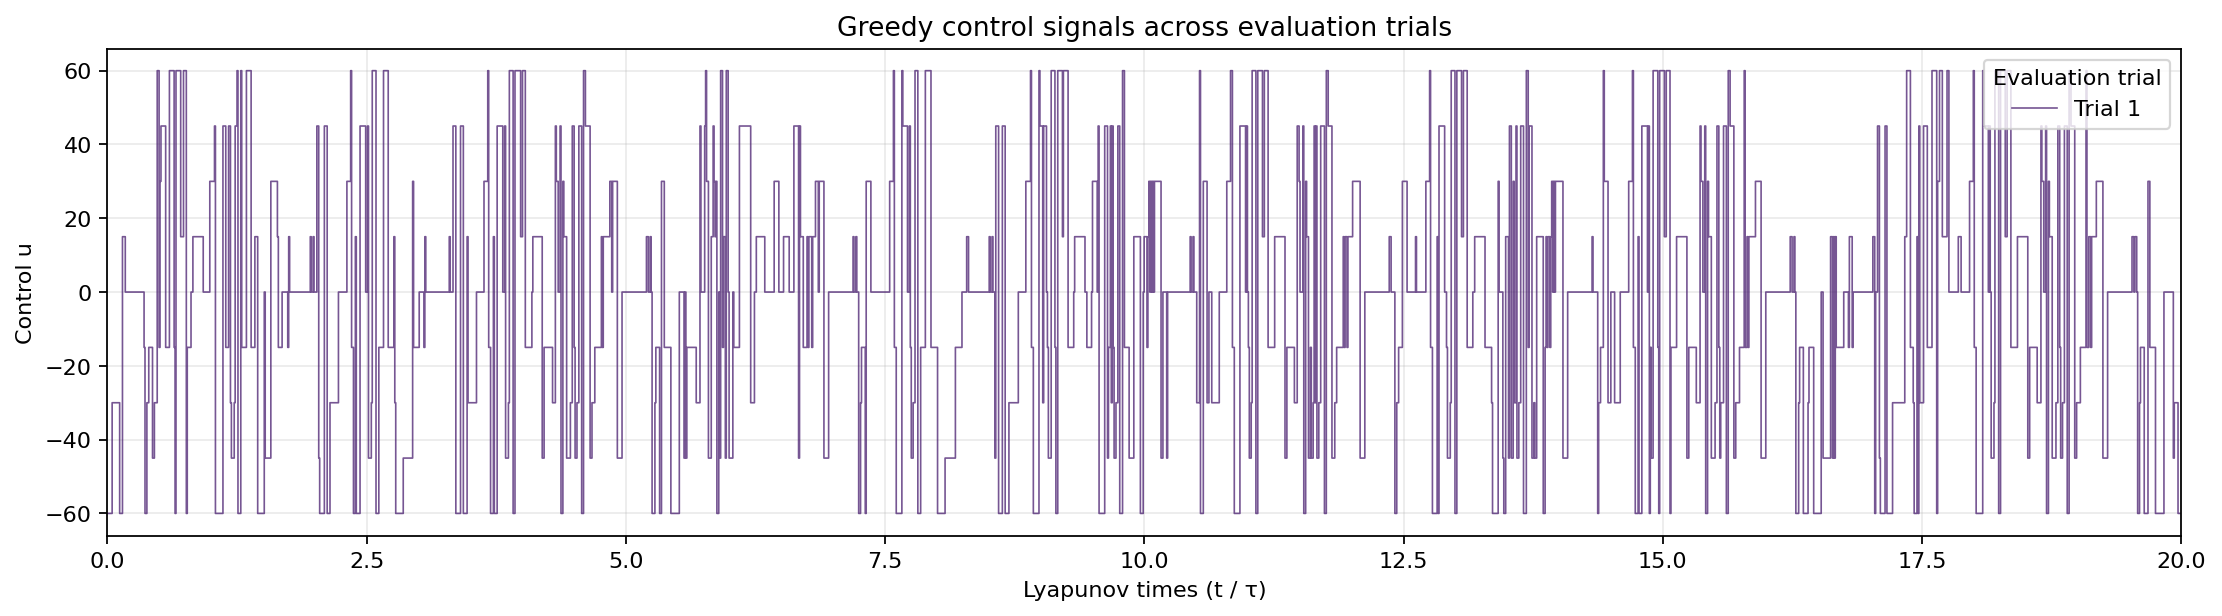
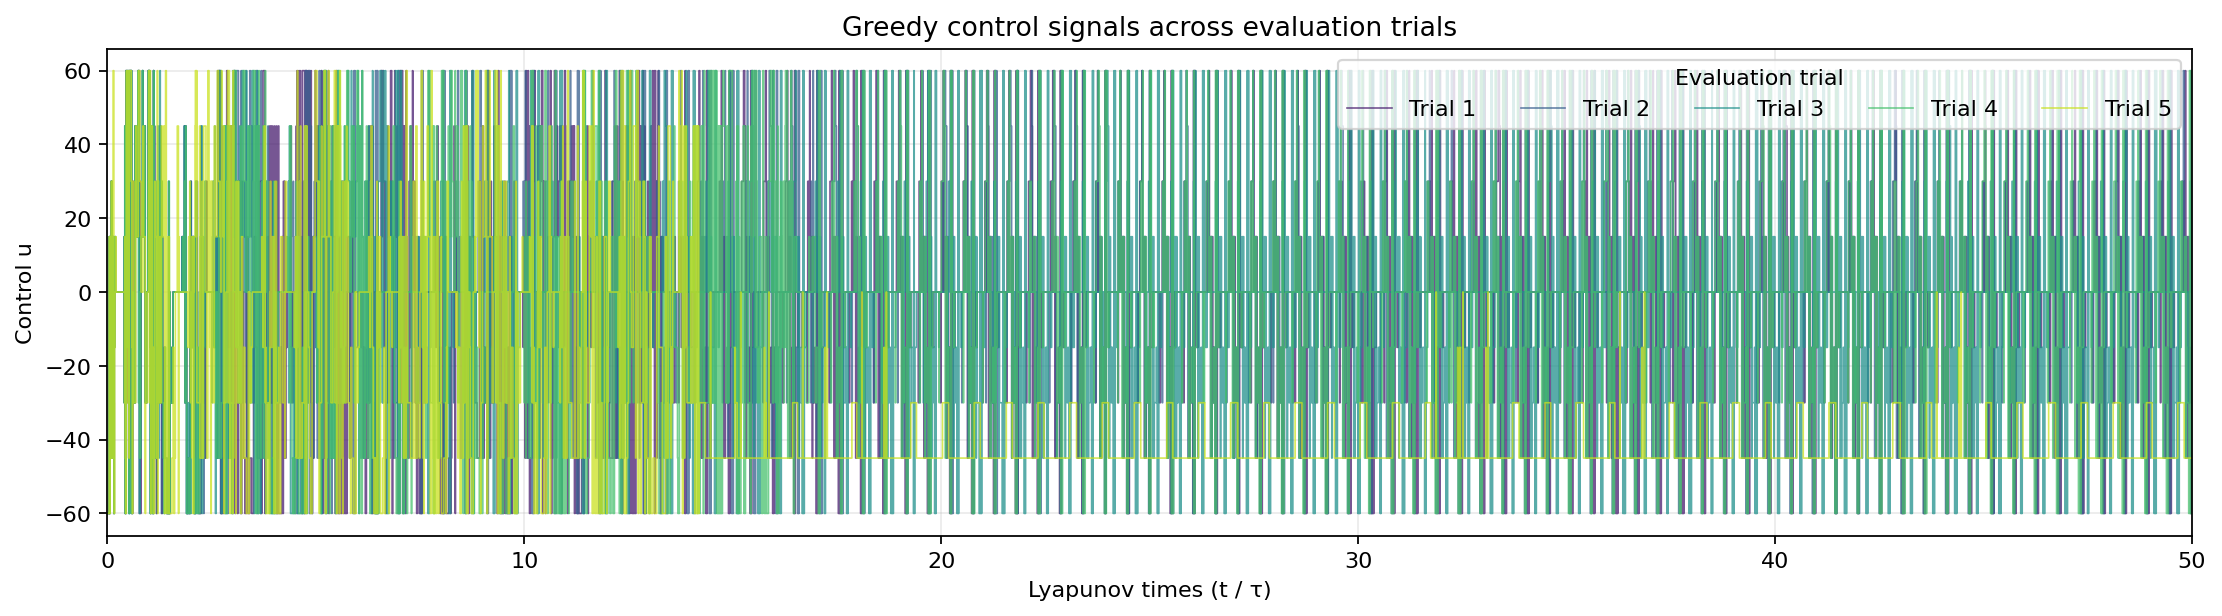
Update Q-learning evaluation workflow

diff --git a/Q-Learning/QLearning.py b/Q-Learning/QLearning.py
@@ -44,17 +44,19 @@ class ExperimentDefaults:
 
     # Episode settings
     episodes: int = 600
-    eval_episodes: int = 1
+    eval_episodes: int = 5
     max_steps: Optional[int] = None
     eval_max_steps: Optional[int] = None
 
     # Initial state and optional exploration reproducibility
     ic: Tuple[float, float, float] = (0.0, 1.0, 1.05)
     exploration_seed: Optional[int] = None
+    evaluation_seed: Optional[int] = 0
+    evaluation_ic_perturbation: float = 0.01
 
     # Simulation duration
-    training_lyapunov_times: float = 2.0
-    evaluation_lyapunov_times: float = 20.0
+    training_lyapunov_times: float = 10.0
+    evaluation_lyapunov_times: float = 50.0
 
     # Control settings
     control_cost: float = LAMBDA
@@ -64,13 +66,13 @@ class ExperimentDefaults:
     action_bins: int = 9
 
     # State discretization
-    state_bins: Tuple[int, int, int] = (15, 15, 15)
+    state_bins: Tuple[int, int, int] = (30, 30, 30)
 
     # Q-learning hyperparameters
     learning_rate: float = 0.01
     discount_factor: float = 1.0
     epsilon: float = 0.99
-    epsilon_decay: float = 0.05
+    epsilon_decay: float = 0.5
     epsilon_min: float = 0.05
 
 EXPERIMENT_DEFAULTS = ExperimentDefaults()
@@ -84,6 +86,41 @@ def lyapunov_times_to_steps(lyapunov_times: float) -> int:
 def steps_to_lyapunov_times(steps: int) -> float:
     """Convert a step count to a duration in Lyapunov times."""
     return steps * LYAPUNOV_EXP * DT
+
+
+def make_evaluation_initial_states(
+    reference_state: Sequence[float],
+    num_episodes: int,
+    perturbation: float = 0.01,
+    random_seed: Optional[int] = 0,
+) -> np.ndarray:
+    """Create reproducible evaluation starts around a reference state.
+
+    Trial 1 uses the exact reference state. Each later trial receives an
+    independent uniform perturbation in ``[-perturbation, perturbation]`` for
+    each coordinate.
+    """
+    reference = np.asarray(reference_state, dtype=np.float64)
+    if reference.shape != (3,) or not np.isfinite(reference).all():
+        raise ValueError("reference_state must contain three finite values")
+    if not isinstance(num_episodes, (int, np.integer)) or isinstance(
+        num_episodes, (bool, np.bool_)
+    ):
+        raise TypeError("num_episodes must be an integer")
+    if num_episodes < 1:
+        raise ValueError("num_episodes must be at least 1")
+    if not np.isfinite(perturbation) or perturbation < 0.0:
+        raise ValueError("perturbation must be finite and nonnegative")
+
+    starts = np.repeat(reference[None, :], int(num_episodes), axis=0)
+    if num_episodes > 1 and perturbation > 0.0:
+        rng = np.random.default_rng(random_seed)
+        starts[1:] += rng.uniform(
+            -perturbation,
+            perturbation,
+            size=(num_episodes - 1, 3),
+        )
+    return starts
 
 
 def phi(x: Union[float, np.ndarray], eps: float = EPS) -> Union[float, np.ndarray]:
@@ -564,11 +601,13 @@ def control_q_learning(
     num_episodes: int,
     max_steps: Optional[int] = None,
     x0: Optional[np.ndarray] = None,
+    initial_states: Optional[Sequence[Sequence[float]]] = None,
 ) -> EvaluationResults:
     """Evaluate greedily without exploration or Q-table updates.
 
-    Each trajectory includes its initial state.  ``actions`` contains discrete
-    action indices; ``control_values`` contains their corresponding controls.
+    Each trajectory includes its initial state. ``initial_states`` may provide
+    one distinct start per episode. ``actions`` contains discrete action
+    indices; ``control_values`` contains their corresponding controls.
     """
     _validate_discrete_pair(env, agent)
     if not isinstance(num_episodes, (int, np.integer)) or isinstance(
@@ -577,6 +616,15 @@ def control_q_learning(
         raise TypeError("num_episodes must be an integer")
     if num_episodes < 1:
         raise ValueError("num_episodes must be at least 1")
+    if x0 is not None and initial_states is not None:
+        raise ValueError("provide either x0 or initial_states, not both")
+    episode_initial_states: Optional[np.ndarray] = None
+    if initial_states is not None:
+        episode_initial_states = np.asarray(initial_states, dtype=np.float64)
+        if episode_initial_states.shape != (num_episodes, 3):
+            raise ValueError("initial_states must have shape (num_episodes, 3)")
+        if not np.isfinite(episode_initial_states).all():
+            raise ValueError("initial_states must contain only finite values")
     if max_steps is not None:
         if not isinstance(max_steps, (int, np.integer)) or isinstance(
             max_steps, (bool, np.bool_)
@@ -595,8 +643,13 @@ def control_q_learning(
     control_efforts: List[float] = []
     objectives: List[float] = []
 
-    for _ in range(num_episodes):
-        state = env.reset(x0=x0)
+    for episode_index in range(num_episodes):
+        episode_x0 = (
+            episode_initial_states[episode_index]
+            if episode_initial_states is not None
+            else x0
+        )
+        state = env.reset(x0=episode_x0)
         states = [state.copy()]
         actions: List[int] = []
         controls: List[float] = []
@@ -678,6 +731,18 @@ def main() -> None:
         help="optional seed for epsilon-greedy exploration only",
     )
     parser.add_argument(
+        "--evaluation-seed",
+        type=int,
+        default=defaults.evaluation_seed,
+        help="seed for evaluation initial-condition perturbations",
+    )
+    parser.add_argument(
+        "--eval-ic-perturbation",
+        type=float,
+        default=defaults.evaluation_ic_perturbation,
+        help="maximum per-coordinate perturbation after evaluation Trial 1",
+    )
+    parser.add_argument(
         "--lyapunov-times",
         type=float,
         default=defaults.training_lyapunov_times,
@@ -721,6 +786,8 @@ def main() -> None:
         parser.error("--eval-max-steps must be at least 1")
     if args.lyapunov_times <= 0.0 or args.eval_lyapunov_times <= 0.0:
         parser.error("Lyapunov-time horizons must be positive")
+    if not np.isfinite(args.eval_ic_perturbation) or args.eval_ic_perturbation < 0.0:
+        parser.error("--eval-ic-perturbation must be finite and nonnegative")
     ic = np.asarray(args.initial_condition, dtype=np.float64)
     if ic.shape != (3,) or not np.isfinite(ic).all():
         parser.error("--initial-condition must contain three finite values")
@@ -765,12 +832,18 @@ def main() -> None:
         regularized=args.regularized,
         u_ref=U_REF,
     )
+    evaluation_initial_states = make_evaluation_initial_states(
+        ic.tolist(),
+        args.eval_episodes,
+        args.eval_ic_perturbation,
+        args.evaluation_seed,
+    )
     evaluation = control_q_learning(
         evaluation_env,
         agent,
         args.eval_episodes,
         args.eval_max_steps,
-        x0=ic,
+        initial_states=evaluation_initial_states.tolist(),
     )
 
     window = min(50, len(history["episode_rewards"]))

diff --git a/Q-Learning/PlotQLearning.py b/Q-Learning/PlotQLearning.py
@@ -61,6 +61,7 @@ QLearningAgent = qlearning.QLearningAgent
 train_q_learning = qlearning.train_q_learning
 control_q_learning = qlearning.control_q_learning
 steps_to_lyapunov_times = qlearning.steps_to_lyapunov_times
+make_evaluation_initial_states = qlearning.make_evaluation_initial_states
 
 
 def _lyapunov_time_axis(number_of_steps: int) -> np.ndarray:
@@ -317,10 +318,16 @@ def plot_evaluation_diagnostics(
             or trajectory.shape[0] == 0
         ):
             raise ValueError("Each evaluation trajectory must have shape (n, 3)")
-    initial_condition_label = np.array2string(
+    reference_condition_label = np.array2string(
         trajectory_arrays[0][0],
         precision=3,
         separator=", ",
+    )
+    initial_states = np.asarray(
+        [trajectory[0] for trajectory in trajectory_arrays], dtype=np.float64
+    )
+    has_perturbed_initial_states = bool(
+        np.any(~np.isclose(initial_states, initial_states[0], rtol=0.0, atol=0.0))
     )
 
     control_arrays = [np.asarray(values, dtype=np.float64) for values in controls]
@@ -443,10 +450,17 @@ def plot_evaluation_diagnostics(
     trajectory_axis.set_xlabel("x")
     trajectory_axis.set_ylabel("y")
     trajectory_axis.set_zlabel("z")
-    trajectory_axis.set_title(
-        f"Evaluation trajectory from fixed initial condition "
-        f"{initial_condition_label}"
-    )
+    if has_perturbed_initial_states:
+        trajectory_title = (
+            "Evaluation trajectories near reference initial condition "
+            f"{reference_condition_label}"
+        )
+    else:
+        trajectory_title = (
+            "Evaluation trajectory from fixed initial condition "
+            f"{reference_condition_label}"
+        )
+    trajectory_axis.set_title(trajectory_title)
     if label_trials:
         trajectory_axis.legend(title="Evaluation trial")
     _finish_figure(
@@ -462,9 +476,14 @@ def plot_evaluation_diagnostics(
         figsize=(14, 10),
         sharex=True,
     )
+    initial_state_description = (
+        "perturbed initial conditions"
+        if has_perturbed_initial_states
+        else "a fixed initial condition"
+    )
     state_figure.suptitle(
-        f"State response from fixed initial condition {initial_condition_label}\n"
-        "Greedy Q-table evaluation with no initial-state perturbation"
+        f"State responses near reference initial condition {reference_condition_label}\n"
+        f"Greedy Q-table evaluation with {initial_state_description}"
     )
     for coordinate, (state_axis, coordinate_label) in enumerate(
         zip(state_axes, ("x", "y", "z"))
@@ -655,6 +674,18 @@ def _build_parser() -> argparse.ArgumentParser:
         help="optional seed for epsilon-greedy exploration only",
     )
     parser.add_argument(
+        "--evaluation-seed",
+        type=int,
+        default=defaults.evaluation_seed,
+        help="seed for evaluation initial-condition perturbations",
+    )
+    parser.add_argument(
+        "--eval-ic-perturbation",
+        type=float,
+        default=defaults.evaluation_ic_perturbation,
+        help="maximum per-coordinate perturbation after evaluation Trial 1",
+    )
+    parser.add_argument(
         "--lyapunov-times",
         type=float,
         default=defaults.training_lyapunov_times,
@@ -727,6 +758,8 @@ def main() -> None:
         or args.eval_lyapunov_times <= 0.0
     ):
         parser.error("--eval-lyapunov-times must be positive")
+    if not np.isfinite(args.eval_ic_perturbation) or args.eval_ic_perturbation < 0.0:
+        parser.error("--eval-ic-perturbation must be finite and nonnegative")
     if not np.isfinite(args.control_cost) or args.control_cost < 0.0:
         parser.error("--control-cost must be nonnegative")
     if args.action_bins < 1:
@@ -788,12 +821,18 @@ def main() -> None:
         u_ref=qlearning.U_REF,
     )
     table_before_evaluation = agent.q_table.copy()
+    evaluation_initial_states = make_evaluation_initial_states(
+        reference_state,
+        args.eval_episodes,
+        args.eval_ic_perturbation,
+        args.evaluation_seed,
+    )
     evaluation = control_q_learning(
         evaluation_env,
         agent,
         args.eval_episodes,
         args.eval_max_steps,
-        x0=reference_state,
+        initial_states=evaluation_initial_states,
     )
     if not np.array_equal(table_before_evaluation, agent.q_table):
         raise RuntimeError("Greedy evaluation unexpectedly changed the Q-table")

diff --git a/Q-Learning/TestQLearning.py b/Q-Learning/TestQLearning.py
@@ -160,6 +160,35 @@ class QLearningRegressionTests(unittest.TestCase):
         with self.assertRaises(ValueError):
             qlearning.StateDiscretizer(bins=2.5)
 
+    def test_evaluation_trials_use_reproducible_distinct_initial_states(self) -> None:
+        starts = qlearning.make_evaluation_initial_states(
+            [0.0, 1.0, 1.05], 4, perturbation=0.01, random_seed=7
+        )
+        repeated = qlearning.make_evaluation_initial_states(
+            [0.0, 1.0, 1.05], 4, perturbation=0.01, random_seed=7
+        )
+
+        np.testing.assert_array_equal(starts, repeated)
+        np.testing.assert_array_equal(starts[0], [0.0, 1.0, 1.05])
+        self.assertTrue(np.all(np.abs(starts[1:] - starts[0]) <= 0.01))
+        self.assertEqual(np.unique(starts, axis=0).shape[0], 4)
+
+        env = qlearning.LorenzEnvEuler(
+            lyapunov_times=0.02,
+            action_type="discrete",
+            n_action_bins=3,
+        )
+        agent = qlearning.QLearningAgent(
+            n_actions=3, epsilon=0.0, epsilon_min=0.0
+        )
+        evaluation = qlearning.control_q_learning(
+            env, agent, num_episodes=4, initial_states=starts
+        )
+        actual_starts = np.asarray(
+            [trajectory[0] for trajectory in evaluation["trajectories"]]
+        )
+        np.testing.assert_array_equal(actual_starts, starts)
+
 
 if __name__ == "__main__":
     unittest.main()
